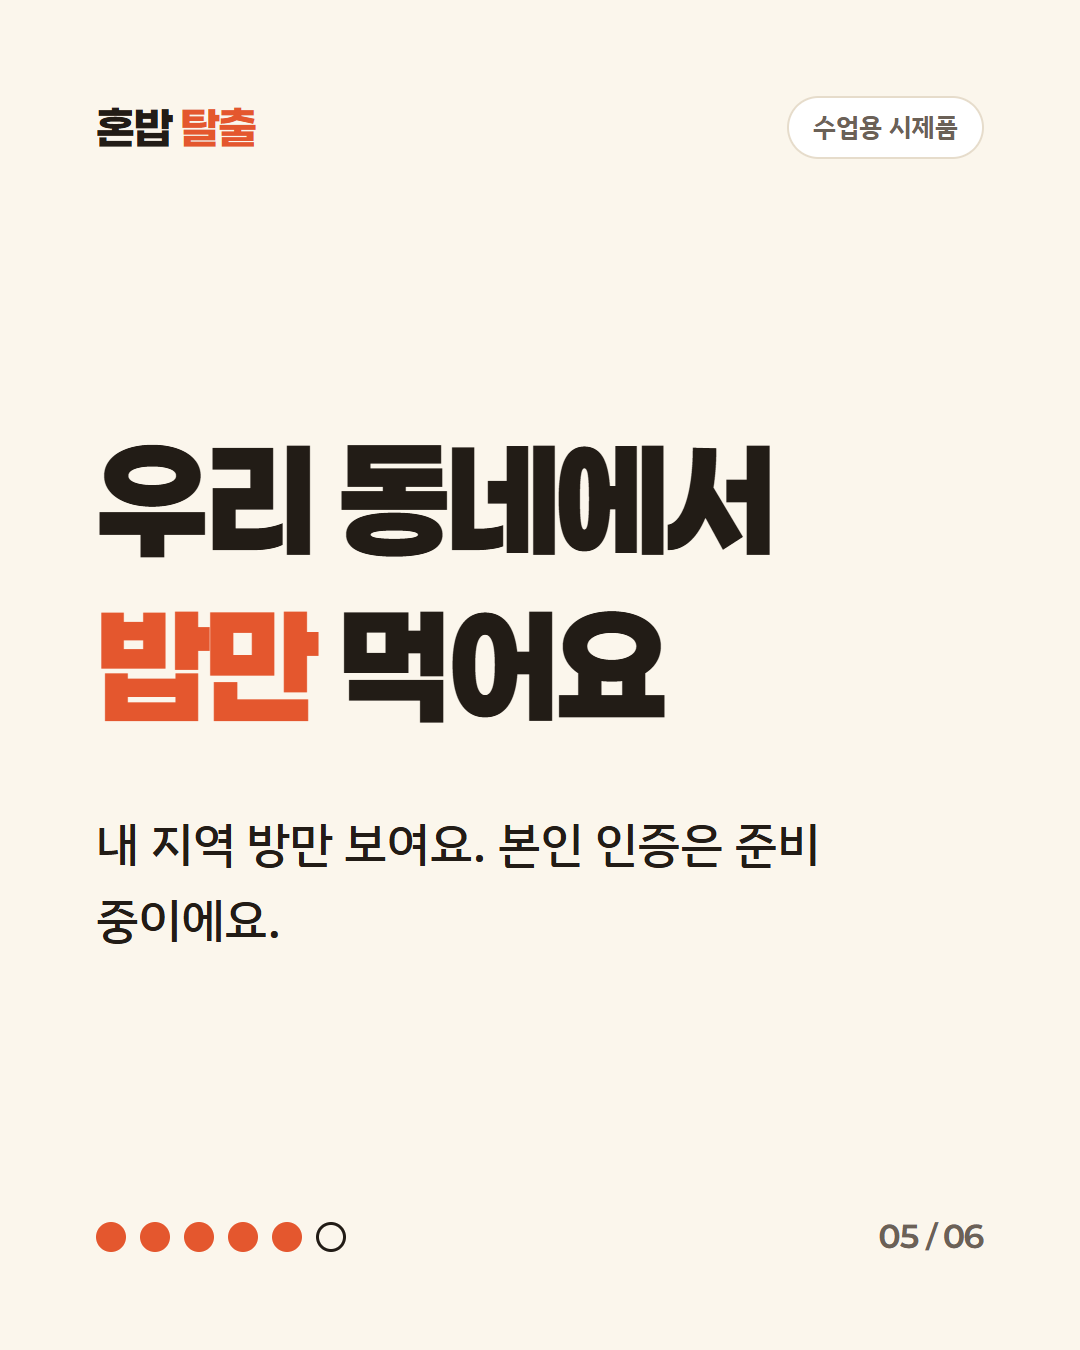
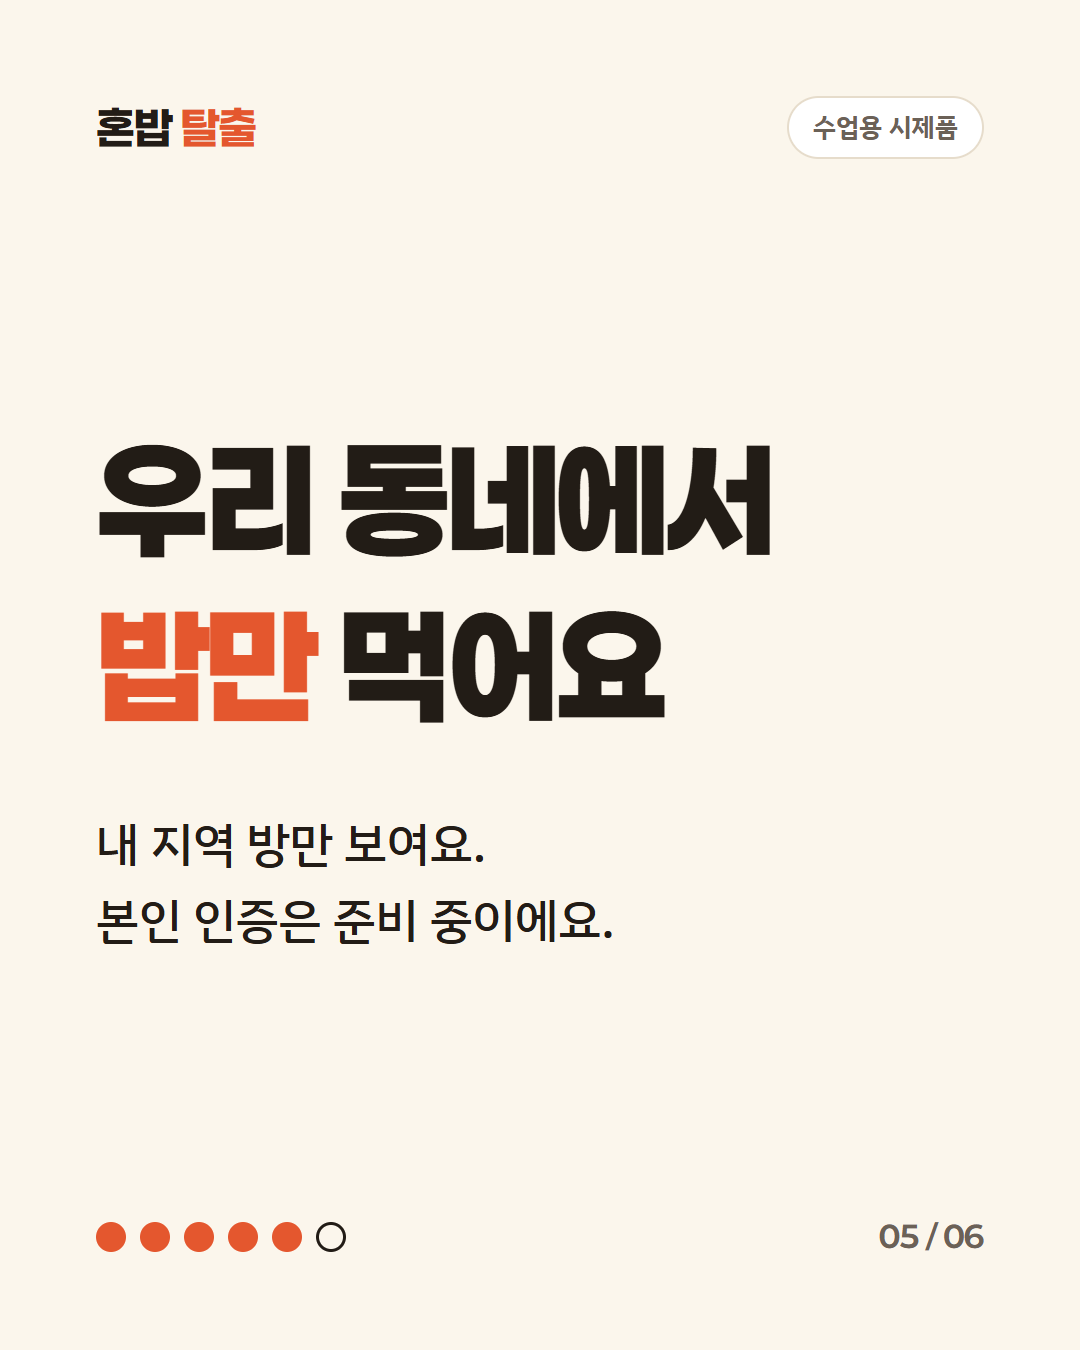
검토: 배포 주소에서 두 사용자 시험 도구와 방 안 화면 캡처 추가, 카드 5번 줄바꿈 고침

Changed region(s): [[0.0917, 0.5911, 0.7639, 0.7156]]

diff --git a/creatives/카드뉴스/05.html b/creatives/카드뉴스/05.html
@@ -10,7 +10,7 @@
 <body>
 <div class="card">
   <div class="top"><div class="wordmark">혼밥 <b>탈출</b></div><div class="label">수업용 시제품</div></div>
-  <div class="main"><h1 class="title">우리 동네에서 <b>밥만</b> 먹어요</h1><p class="body">내 지역 방만 보여요. 본인 인증은 준비 중이에요.</p></div>
+  <div class="main"><h1 class="title">우리 동네에서 <b>밥만</b> 먹어요</h1><p class="body">내 지역 방만 보여요.<br>본인 인증은 준비 중이에요.</p></div>
   <div class="bottom"><div class="dots"><i class="on"></i><i class="on"></i><i class="on"></i><i class="on"></i><i class="on"></i><i></i></div><div class="page">05 / 06</div></div>
 </div>
 </body>
